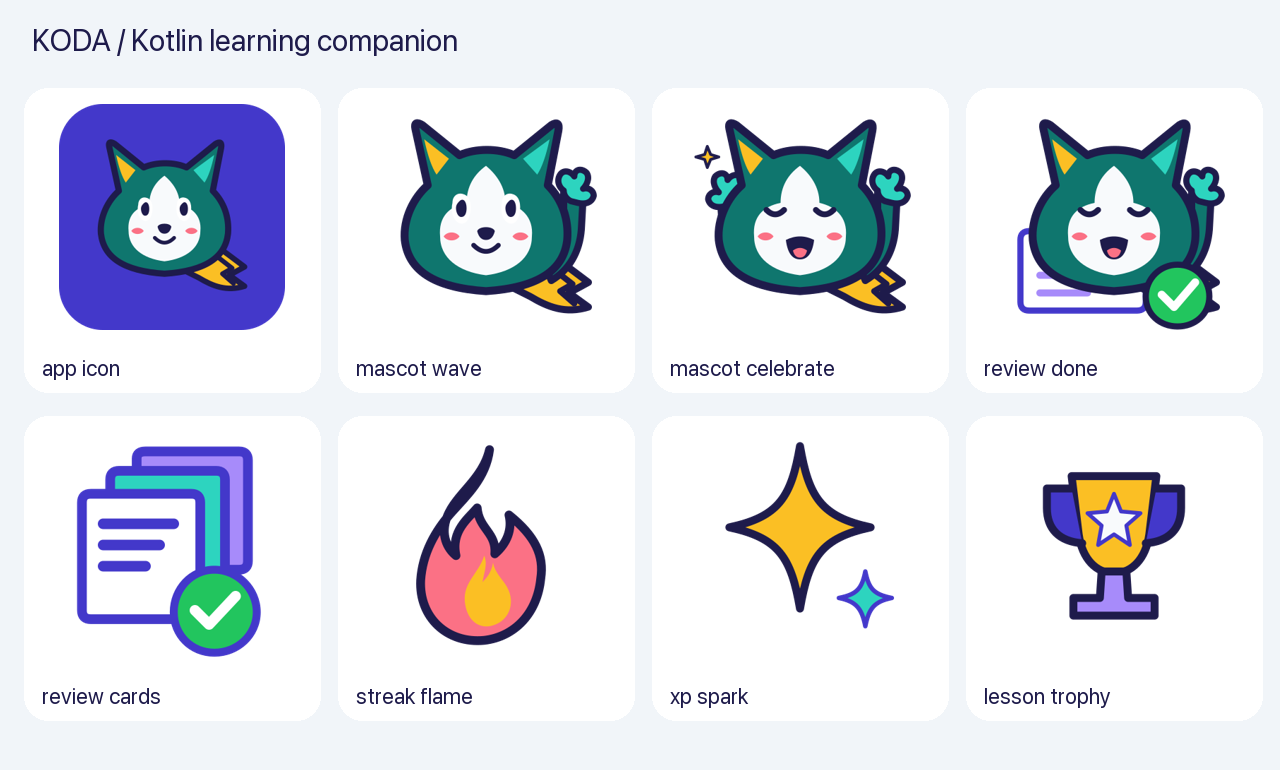
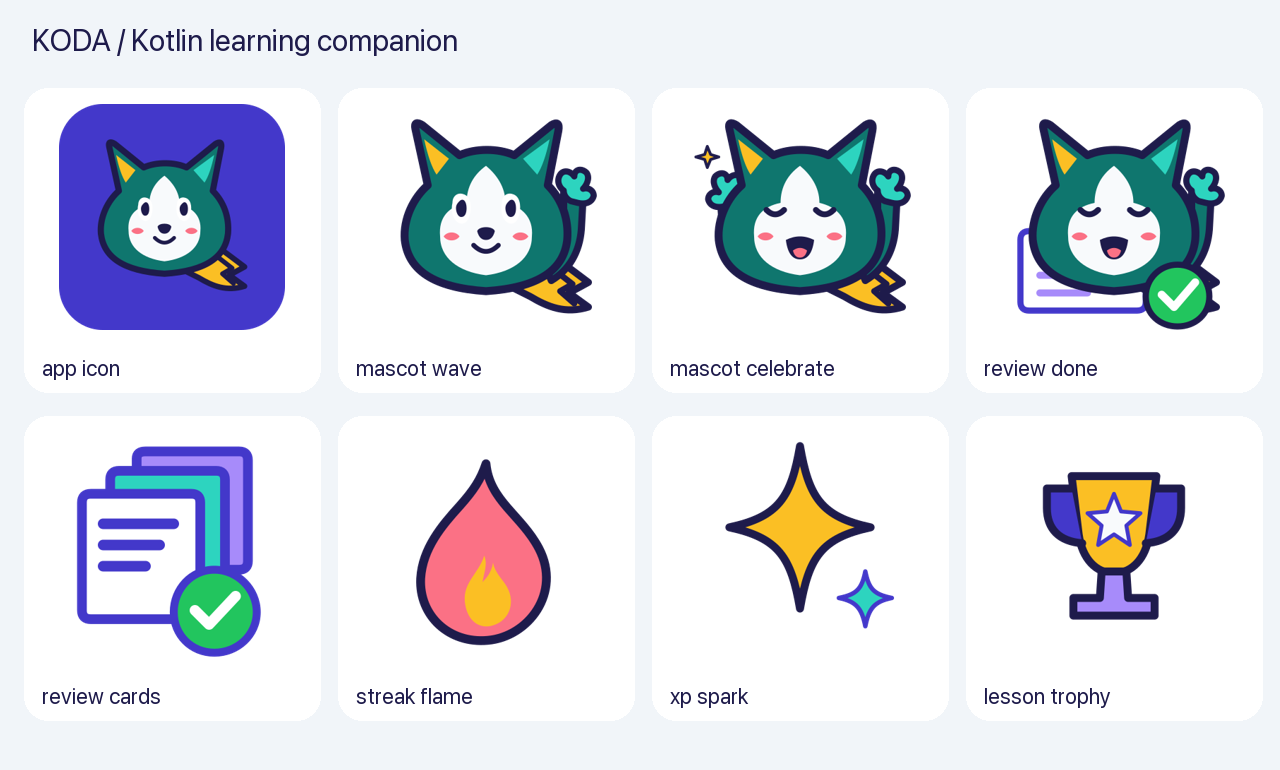
Remove stray outline from streak flame for v0.1.2

Changed region(s): [[0.3438, 0.561, 0.4375, 0.8104], [0.3438, 0.8104, 0.4062, 0.8416], [0.3125, 0.7792, 0.3438, 0.8104]]

diff --git a/assets/brand/generate_assets.py b/assets/brand/generate_assets.py
@@ -97,7 +97,7 @@ ASSETS["review_cards"] = [
     line("M 77,101 L 85,109 L 100,93", "white", 6),
 ]
 ASSETS["streak_flame"] = [
-    p("M 66,10 C 62,27 47,35 42,48 C 38,58 42,66 47,70 C 44,56 54,49 59,43 C 60,55 70,57 69,69 C 76,63 79,55 77,47 C 92,59 97,70 95,83 C 93,103 80,116 63,118 C 42,120 26,105 27,84 C 28,69 35,56 45,45 C 53,36 64,26 66,10 Z", "coral", "ink", 5),
+    p("M 64,18 C 66,39 84,47 94,66 C 107,91 88,116 65,118 C 43,120 26,104 27,83 C 28,66 39,53 49,42 C 57,33 61,27 64,18 Z", "coral", "ink", 5),
     p("M 63,70 C 60,80 51,85 52,96 C 53,106 59,111 66,110 C 77,108 81,97 76,88 C 74,84 69,80 68,74 C 67,80 64,83 62,85 C 63,79 65,75 63,70 Z", "amber"),
 ]
 ASSETS["xp_spark"] = [

diff --git a/docs/HANDOFF.md b/docs/HANDOFF.md
@@ -1,6 +1,6 @@
 # Handoff: learn-kotlin
 
-State as of 2026-10-24, updated for v0.1.1. Written for whoever picks the project up next, for example Codex working in this checkout.
+State as of 2026-10-24, updated for v0.1.2. Written for whoever picks the project up next, for example Codex working in this checkout.
 
 ## What it is
 
@@ -10,6 +10,7 @@ An Android app for learning Kotlin, Duolingo-style, aimed at the Stripe Android 
 - Releases: v0.1.0-alpha.1, alpha.2 and alpha.3 are debug-signed pre-releases. v0.1.0 is the first stable release for personal use, adds OpenRouter, and uses a non-debuggable release APK signed with the existing development certificate so alpha installs can update without losing progress.
 - Device validation: Agam confirmed on 2026-10-24 that the app works on a physical Android device. Physical-device smoke testing is complete; this does not claim a seven-day soak test or emulator coverage.
 - v0.1.1 adds Koda, an original teal fox mascot, seven in-app vector illustrations/icons, and adaptive color/monochrome launcher art. Source SVGs and the generator live in `assets/brand`; native vector resources are in `app-android/src/main/res`. `BrandArtwork.kt` draws them in Home, lesson completion and review. The launcher artwork fits the centered 66 dp circular safe area. Source/path parity, rendered light/dark artwork, and circular/themed launcher previews were checked. No phone was connected for a fresh v0.1.1 device test.
+- v0.1.2 removes the stray dark stroke from the streak flame's outline. SVG, Android vector and preview are regenerated from the shared source; the other artwork is unchanged.
 - Plan and rules: `docs/PLAN.md`. Content contract: `docs/CONTENT_SCHEMA.md`. Compiler server findings: `docs/spike-report.md`. AI API facts: `docs/AI_PROVIDERS.md`. Setup for users: `README.md`.
 
 ## Modules
